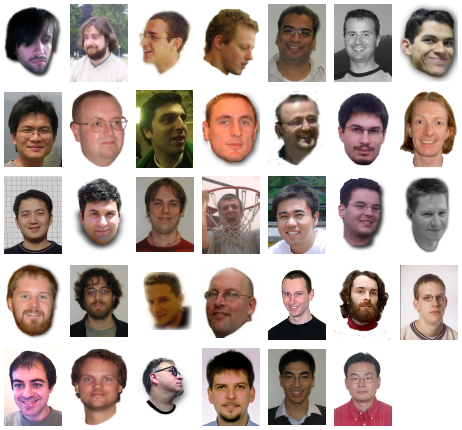
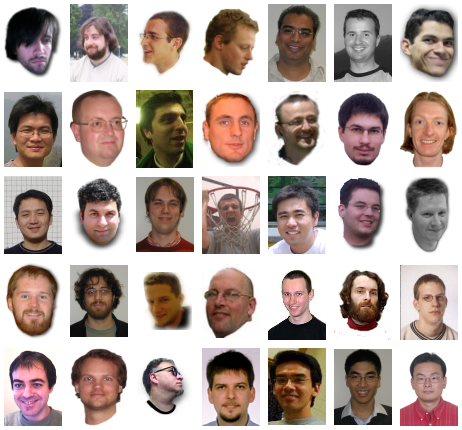
Add Wei Ming Khoo to the Go-oo team
* about/index.html: add Wei Ming Khoo
	* img/go-oo-team.png: add Wei Ming Khoo

Changed region(s): [[0.5758, 0.786, 1.0, 0.9977]]

diff --git a/about/index.html b/about/index.html
@@ -48,7 +48,7 @@ Jiao, Jody, Kai, Kalman, Kohei, Martin, Matthias
 Michael, Mike, Miklos, Noel, Petr, Radek, Rene
 </p>
 <p style="text-align: center; height: 78px;">
-Silvan, Thorsten, Tor, Volker, Yin, ZhangYun.
+Silvan, Thorsten, Tor, Volker, Wei, Yin, ZhangYun
 </p>
 <p>If you believe you should be on this page, but are missing please
 ping me <i>kendy at</i><i> novell.com</i></p>
